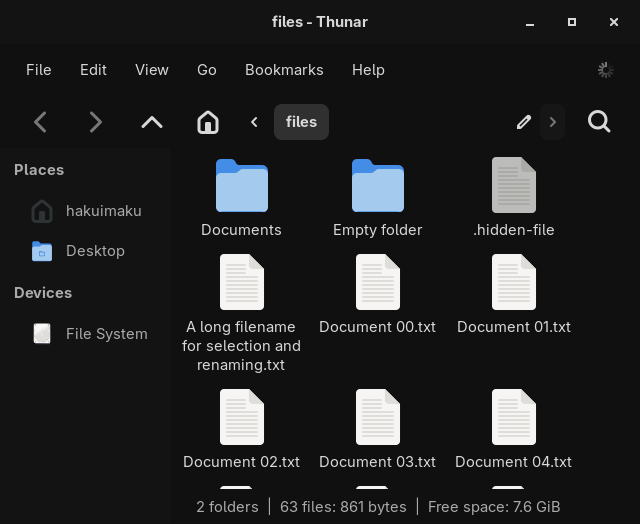
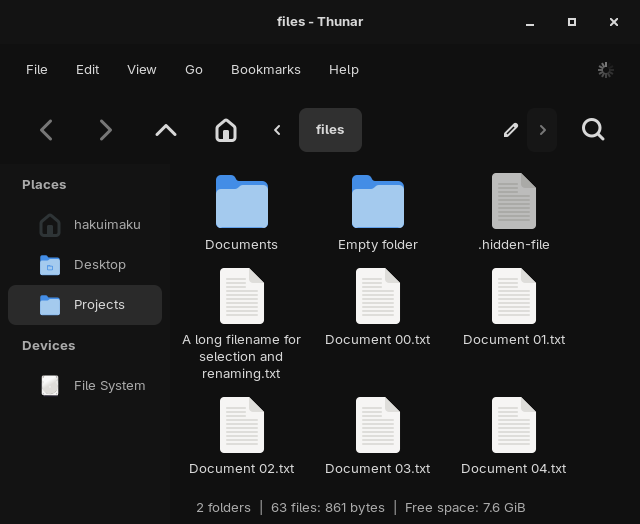
Update README and CSS for GTK3/GTK4 theme adjustments; refine widget styles and hover effects

diff --git a/themes/Hikaide/gtk-3.0/gtk.css b/themes/Hikaide/gtk-3.0/gtk.css
@@ -20,18 +20,19 @@ treeview header button:focus { background-color: @haku_focus; }
 .view.cell, .view row { background-color: transparent; }
 .view.cell:hover, .view:hover, iconview:hover {
   background-color: @haku_hover;
-  border-radius: 8px;
+  border-radius: 0;
 }
 .view:selected, .view.cell:selected, .view row:selected, iconview:selected {
   background-color: @haku_selection;
   color: @haku_fg;
-  border-radius: 8px;
+  border-radius: 0;
 }
 .view:selected:backdrop, .view.cell:selected:backdrop, iconview:selected:backdrop {
   background-color: @haku_selection_backdrop;
   color: @haku_fg;
 }
-.view.cell:focus, iconview:focus { background-color: @haku_active; }
+/* GTK3 also paints the empty list area with the focused cell context. */
+iconview:focus { background-color: @haku_active; }
 .view.cell:selected:focus, iconview:selected:focus { background-color: @haku_focus; }
 treeview.view:hover { background-color: @haku_base; }
 treeview.view:selected:hover { background-color: @haku_selection; }
@@ -40,16 +41,13 @@ treeview.view:selected:hover { background-color: @haku_selection; }
 /* GTK3 loads file-list surfaces at the chooser node before CSS can recolor them. */
 filechooser { -gtk-icon-theme: "Adwaita"; }
 filechooser > * { -gtk-icon-theme: initial; }
-filechooser treeview.view:hover,
-filechooser treeview.view:selected,
-filechooser treeview.view.cell:hover,
-filechooser treeview.view.cell:selected { border-radius: 0; }
 
 toolbar, menubar, statusbar {
   padding: 4px 8px;
   background-color: @haku_base;
   color: @haku_fg;
 }
+toolbar { padding: 8px 12px; }
 toolbar button { background-color: transparent; }
 toolbar button:hover { background-color: @haku_hover; }
 toolbar button:checked, toolbar button:active { background-color: @haku_active; }
@@ -58,7 +56,7 @@ statusbar { color: @haku_secondary; }
 statusbar frame { padding: 0; }
 
 menu, .menu, popover {
-  padding: 4px;
+  padding: 8px;
   border-radius: 8px;
   background-color: @haku_surface;
   background-image: none;
@@ -71,6 +69,7 @@ menuitem, modelbutton {
   border-radius: 8px;
   background-color: transparent;
 }
+menu menuitem, popover modelbutton { padding: 8px 16px; }
 menuitem:hover, modelbutton:hover, modelbutton:focus {
   background-color: @haku_active;
   color: @haku_fg;
@@ -93,24 +92,32 @@ dialog .dialog-vbox { padding: 12px; }
 dialog .dialog-action-area { padding: 8px; }
 
 /* Inspected on Thunar 4.20: ExoIconView is widget.view, not iconview. */
-window.thunar { background-color: @haku_base; }
-.thunar menubar, .thunar toolbar { padding: 8px 12px; }
-.thunar menubar > menuitem, .thunar toolbar button, .thunar toolbar entry {
-  padding: 6px 12px;
-}
+window.thunar { background-color: @haku_base; font-size: 0.9em; }
+.thunar menubar { padding: 8px 12px; }
+.thunar toolbar { padding: 12px 16px; }
+.thunar menubar > menuitem { padding: 6px 12px; }
+.thunar toolbar button, .thunar toolbar entry { padding: 8px 14px; }
+.thunar .path-bar > button.location-button.toggle { padding: 10px 16px; }
 .thunar menubar > menuitem { margin: 0 2px; }
 .thunar toolbar button { margin: 0 4px; }
 .thunar toolbar entry { margin: 0 8px; }
 /* Thunar gives the breadcrumb arrow buttons a fixed, compact allocation. */
 .thunar .path-bar > button.location-button:not(.toggle) {
   min-width: 16px;
-  padding: 6px 4px;
+  padding: 8px 4px;
   margin: 0 2px;
 }
 .thunar .sidebar, .thunar .sidebar treeview {
   background-color: @haku_sidebar;
   color: @haku_secondary;
 }
+.thunar .sidebar { padding: 0 8px; }
+/* Overlay scrollbars need an opaque gutter beside row highlights. */
+.thunar .sidebar scrollbar.vertical {
+  background-color: @haku_sidebar;
+}
+.thunar .sidebar scrollbar.vertical.right { padding-left: 8px; }
+.thunar .sidebar scrollbar.vertical.left { padding-right: 8px; }
 .thunar .sidebar treeview:hover { background-color: @haku_sidebar; }
 .thunar .sidebar .cell { padding: 4px; border-radius: 8px; }
 .thunar .sidebar .cell:hover { background-color: @haku_hover; color: @haku_fg; }
@@ -124,9 +131,7 @@ window.thunar { background-color: @haku_base; }
   background-color: @haku_selection_backdrop;
   color: @haku_fg;
 }
-.thunar .standard-view .view { border-radius: 8px; }
-.thunar .standard-view .view:selected,
-.thunar .standard-view .view row:selected { border-radius: 0; }
+.thunar .standard-view .view { border-radius: 0; }
 .thunar .standard-view { background-color: @haku_base; }
 /* Thunar multiplies icons by the Exo view's state background; alpha keeps them legible. */
 .thunar .standard-view widget.view { background-color: transparent; }

diff --git a/themes/Hikaide/gtk-4.0/gtk.css b/themes/Hikaide/gtk-4.0/gtk.css
@@ -13,8 +13,7 @@ listview, gridview, columnview, .view {
   background-color: @haku_base;
   color: @haku_fg;
 }
-listview > row, gridview > child { padding: 4px 8px; border-radius: 8px; }
-filechooser listview > row { border-radius: 0; }
+listview > row, gridview > child { padding: 4px 8px; border-radius: 0; }
 gridview > child:hover { background-color: @haku_hover; }
 gridview > child:focus { background-color: @haku_active; }
 gridview > child:selected { background-color: @haku_selection; color: @haku_fg; }
@@ -28,7 +27,7 @@ columnview header button:hover { background-color: @haku_hover; }
 
 popover { background-color: transparent; }
 popover > contents {
-  padding: 4px;
+  padding: 8px;
   border-radius: 8px;
   background-color: @haku_surface;
   color: @haku_fg;
@@ -36,7 +35,7 @@ popover > contents {
 popover > arrow { background-color: @haku_surface; }
 popover modelbutton {
   min-height: 24px;
-  padding: 4px 8px;
+  padding: 8px 16px;
   border-radius: 8px;
 }
 popover modelbutton:hover, popover modelbutton:focus, popover modelbutton:selected {

diff --git a/themes/Hikaide/shared/widgets.css b/themes/Hikaide/shared/widgets.css
@@ -170,7 +170,7 @@ scale:focus slider { background-color: @haku_white; }
 scale marks, progressbar text { color: @haku_secondary; }
 separator { min-width: 1px; min-height: 1px; background-color: @haku_hover; }
 paned > separator { min-width: 4px; min-height: 4px; background: transparent; }
-rubberband { background-color: alpha(@haku_secondary, 0.18); border-radius: 8px; }
+rubberband { background-color: alpha(@haku_secondary, 0.18); border-radius: 0; }
 
 tooltip {
   padding: 8px;

diff --git a/tests/thunar_probe.c b/tests/thunar_probe.c
@@ -104,6 +104,13 @@ static gboolean exercise(gpointer unused) {
     if (g_str_equal(G_OBJECT_TYPE_NAME(l->data), "ThunarWindow")) main_window = l->data;
   g_list_free(windows);
   g_assert_nonnull(main_window);
+  char *desktop_font;
+  g_object_get(gtk_settings_get_default(), "gtk-font-name", &desktop_font, NULL);
+  PangoFontDescription *desktop_description = pango_font_description_from_string(desktop_font);
+  const PangoFontDescription *window_font = gtk_style_context_get_font(gtk_widget_get_style_context(main_window), GTK_STATE_FLAG_NORMAL);
+  g_assert_cmpfloat_with_epsilon((double)pango_font_description_get_size(window_font) / pango_font_description_get_size(desktop_description), 0.9, 0.01);
+  pango_font_description_free(desktop_description);
+  g_free(desktop_font);
   GdkRGBA bg;
   gtk_style_context_get_background_color(gtk_widget_get_style_context(main_window), GTK_STATE_FLAG_NORMAL, &bg);
   g_assert_cmpfloat_with_epsilon(bg.red, 16.0 / 255, 0.001);

diff --git a/tests/gtk_smoke.py b/tests/gtk_smoke.py
@@ -121,6 +121,14 @@ def finish():
             import cairo
             bg = window.get_style_context().get_background_color(Gtk.StateFlags.NORMAL)
             assert abs(bg.red - 16 / 255) < 0.001 and bg.red == bg.green == bg.blue
+            # GTK3 paints empty space below rows with this focused cell context.
+            context = tree.get_style_context()
+            context.save()
+            context.add_class("cell")
+            context.set_state(Gtk.StateFlags.FOCUSED)
+            empty_bg = context.get_background_color(Gtk.StateFlags.FOCUSED)
+            context.restore()
+            assert empty_bg.alpha == 0 or abs(empty_bg.red - 16 / 255) < 0.001, empty_bg
             for state in (Gtk.StateFlags.NORMAL, Gtk.StateFlags.PRELIGHT, Gtk.StateFlags.ACTIVE, Gtk.StateFlags.INSENSITIVE):
                 context = normal.get_style_context()
                 context.save()

diff --git a/tests/run_checks.py b/tests/run_checks.py
@@ -103,6 +103,7 @@ def thunar_checks(temporary, env, output):
     subprocess.run(["cc", "-shared", "-fPIC", "-Wno-deprecated-declarations", str(ROOT / "tests/thunar_probe.c"), "-o", str(module), *flags, "-ldl"], check=True)
     files = temporary / "files"
     files.mkdir()
+    (temporary / "config/gtk-3.0/bookmarks").write_text(f"{files.as_uri()} Projects\n")
     (files / "Documents").mkdir()
     (files / "Empty folder").mkdir()
     for name in ("A long filename for selection and renaming.txt", ".hidden-file", "README.md"):

diff --git a/README.md b/README.md
@@ -4,6 +4,8 @@ A quiet, monochrome GTK3 and GTK4 theme inspired by HakuSpace, with Thunar as it
 
 Near-black surfaces, soft gray text, borderless controls, and subtle state changes keep the interface calm. Hikaide uses a `#101010` base, `#d8d8d8` text, 8px interactive corners, 200ms color fades, and opaque context menus. File chooser sidebars leave 12px between icons and labels.
 
+File view hover and selection highlights have square corners, and empty list space stays dark when focused. Thunar uses 90% of the desktop font size, 8px sidebar insets with an 8px scrollbar gutter, 12px × 16px toolbar padding, and 10px × 16px padding inside breadcrumb buttons.
+
 ## Preview
 
 **Thunar** — spacious menus and navigation controls, a flat breadcrumb bar, and a subtly separated sidebar.
